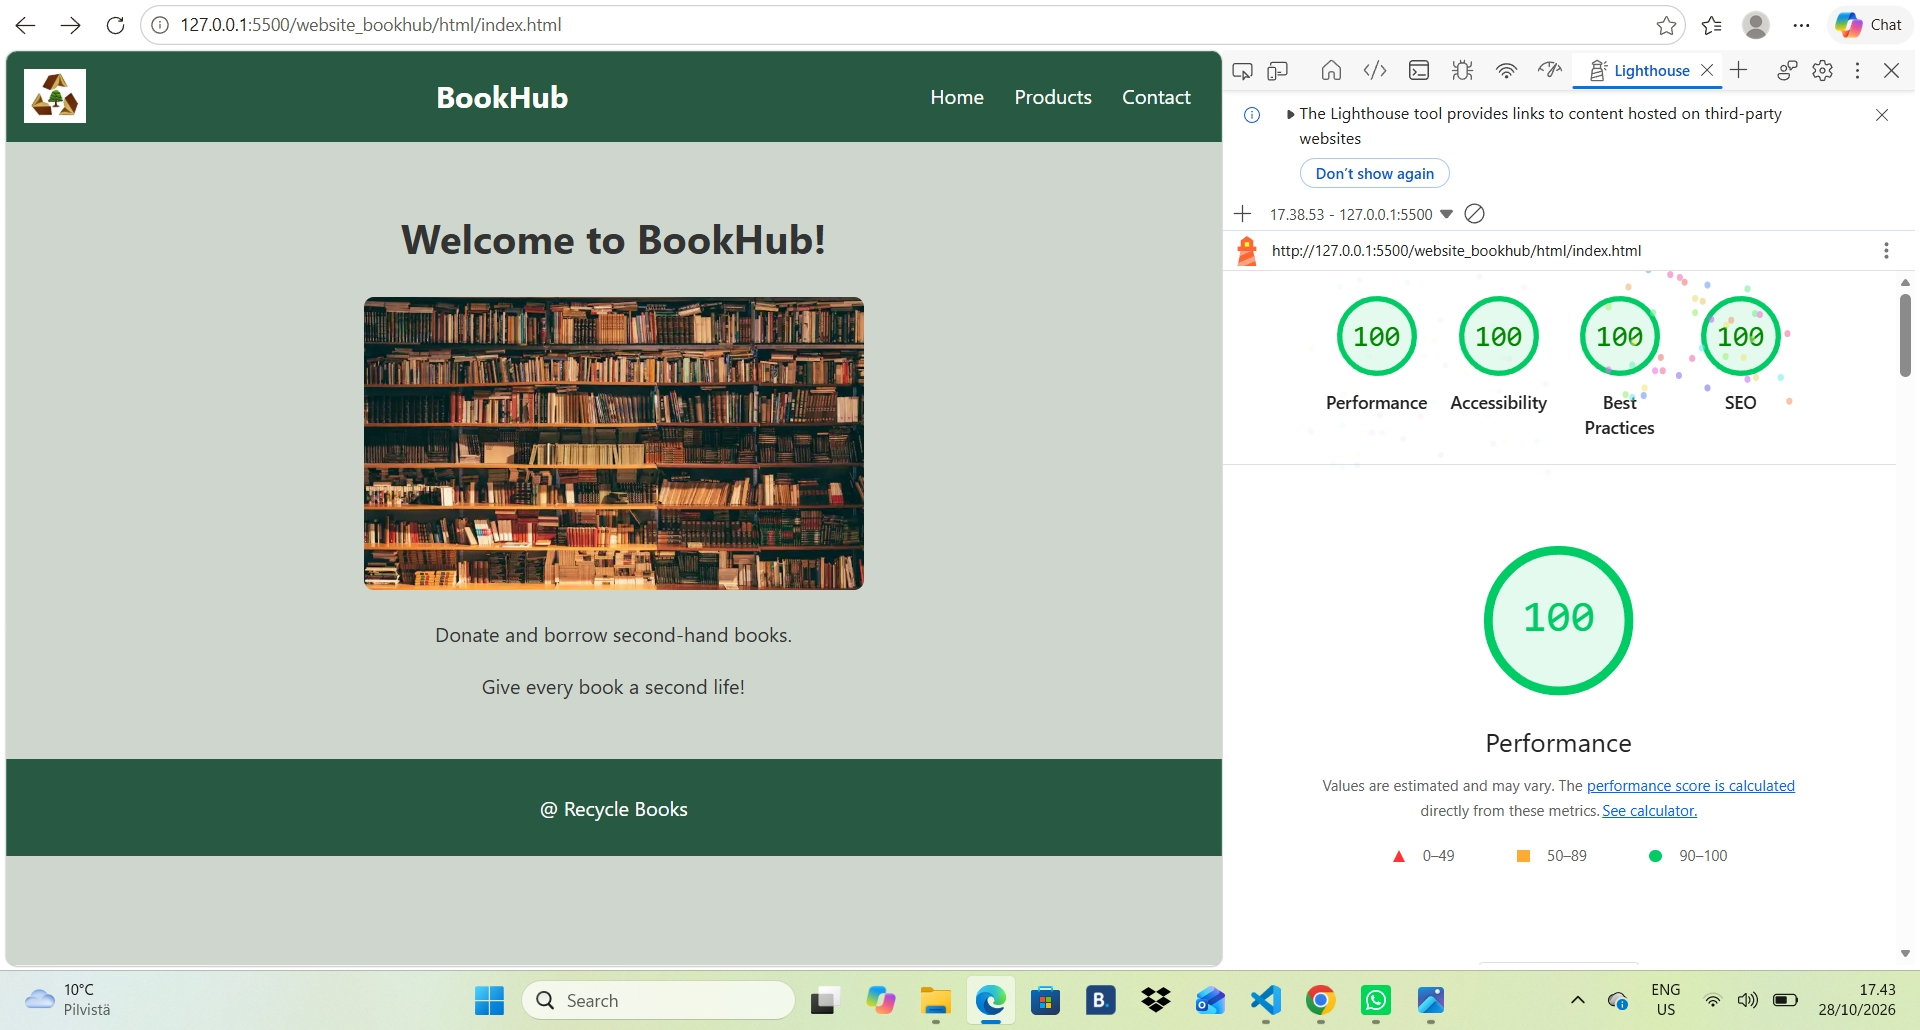
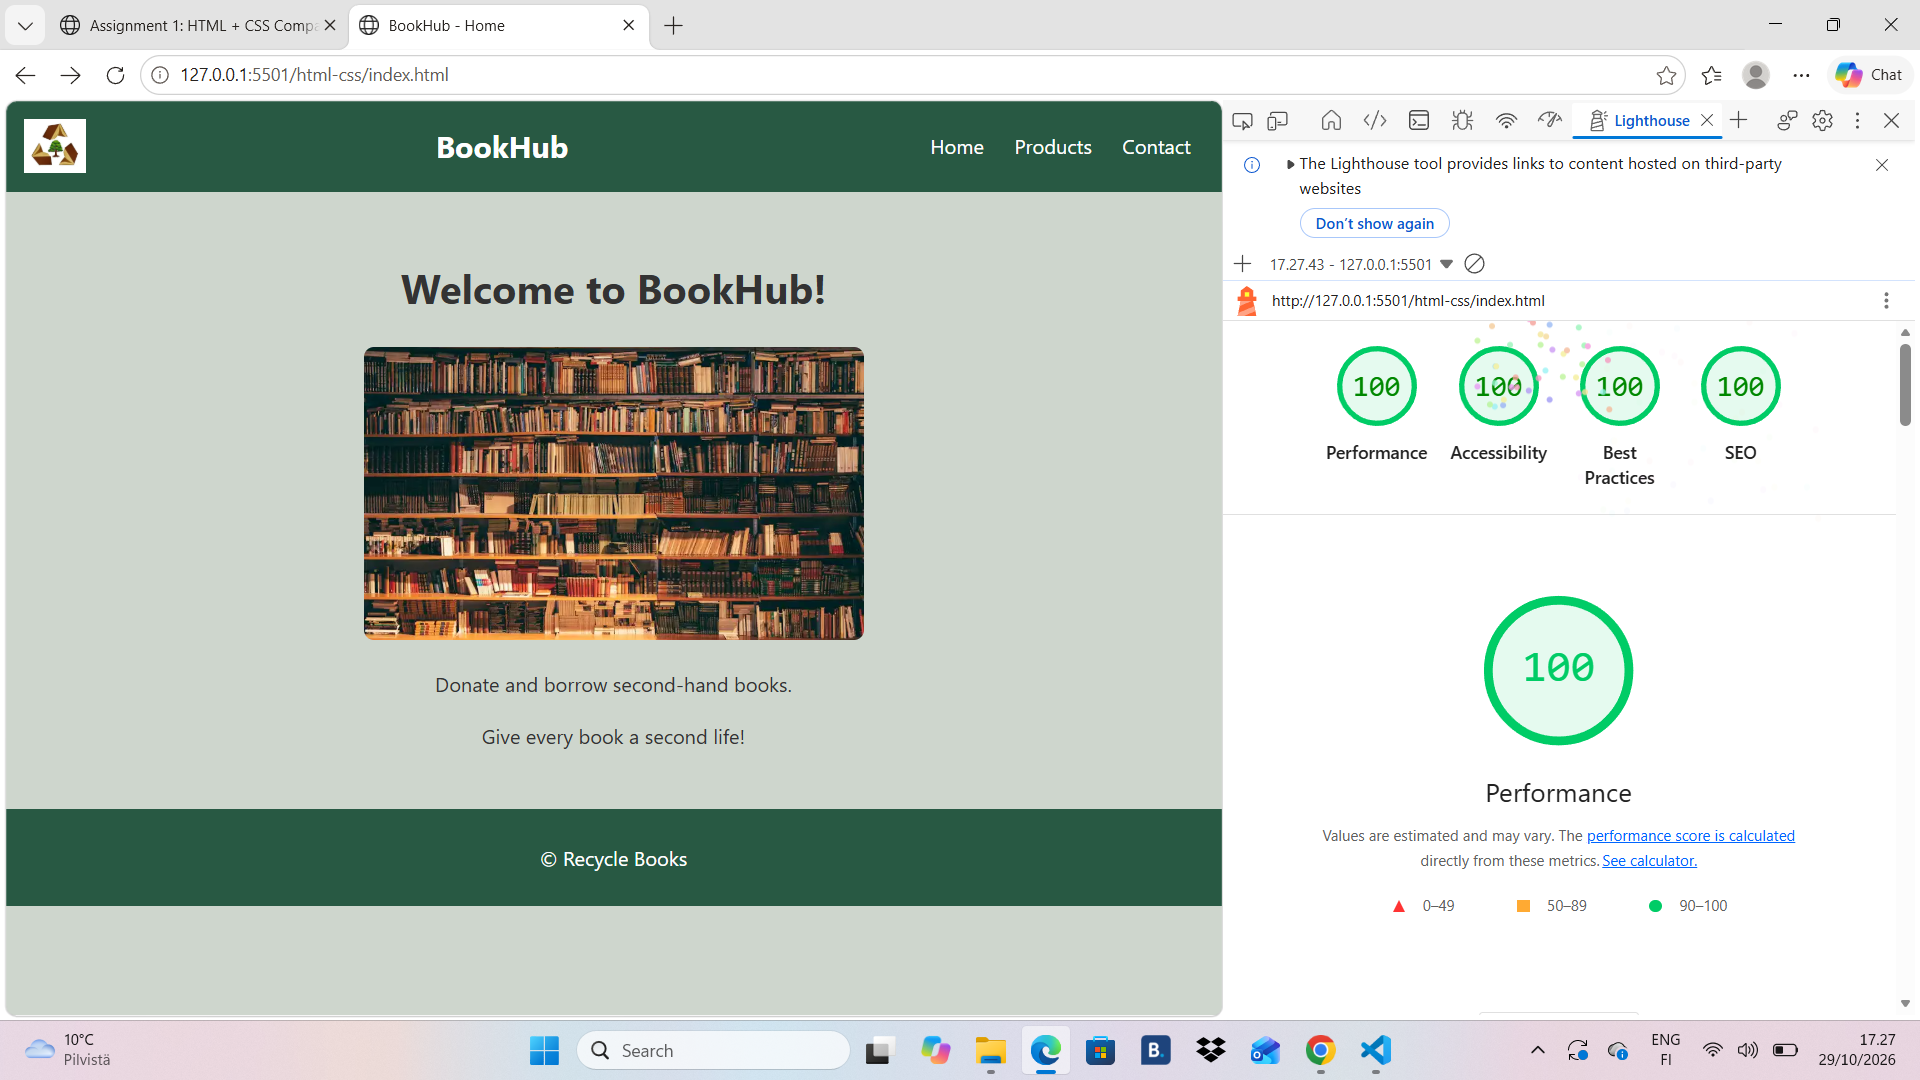
js-exercise

diff --git a/html-css/screenshot.html b/html-css/screenshot.html
@@ -20,7 +20,7 @@
 </pre>
 <h2>Validation</h2>
 <p>
-    <img src="pics/validation.png" alt="valid" width="700" height="400">
+    <img src="pics/validator.png" alt="valid" width="700" height="400">
 </p>
 <h2>Lighthouse</h2>
 <p>
@@ -28,7 +28,7 @@
 </p>
 <h2>Contrast</h2>
 <p>
-    <img src="pics/contrast.jpeg" alt="contrast" width="700" height="400">
+    <img src="pics/contrast.png" alt="contrast" width="700" height="400">
 </p>
 
 </body>

diff --git a/js-1-2/assignment-1/assignment-1.html b/js-1-2/assignment-1/assignment-1.html
@@ -1,0 +1,12 @@
+<!DOCTYPE html>
+<html lang="en">
+<head>
+  <meta charset="UTF-8">
+  <title>Assignment 1</title>
+  <script src="assignment-1.js" defer></script>
+</head>
+<body>
+<h1>This is my first JavaScript program</h1>
+<p id="target"></p>
+</body>
+</html>

diff --git a/js-1-2/assignment-1/assignment-1.js b/js-1-2/assignment-1/assignment-1.js
@@ -1,0 +1,1 @@
+console.log("I'm printing to console!");
